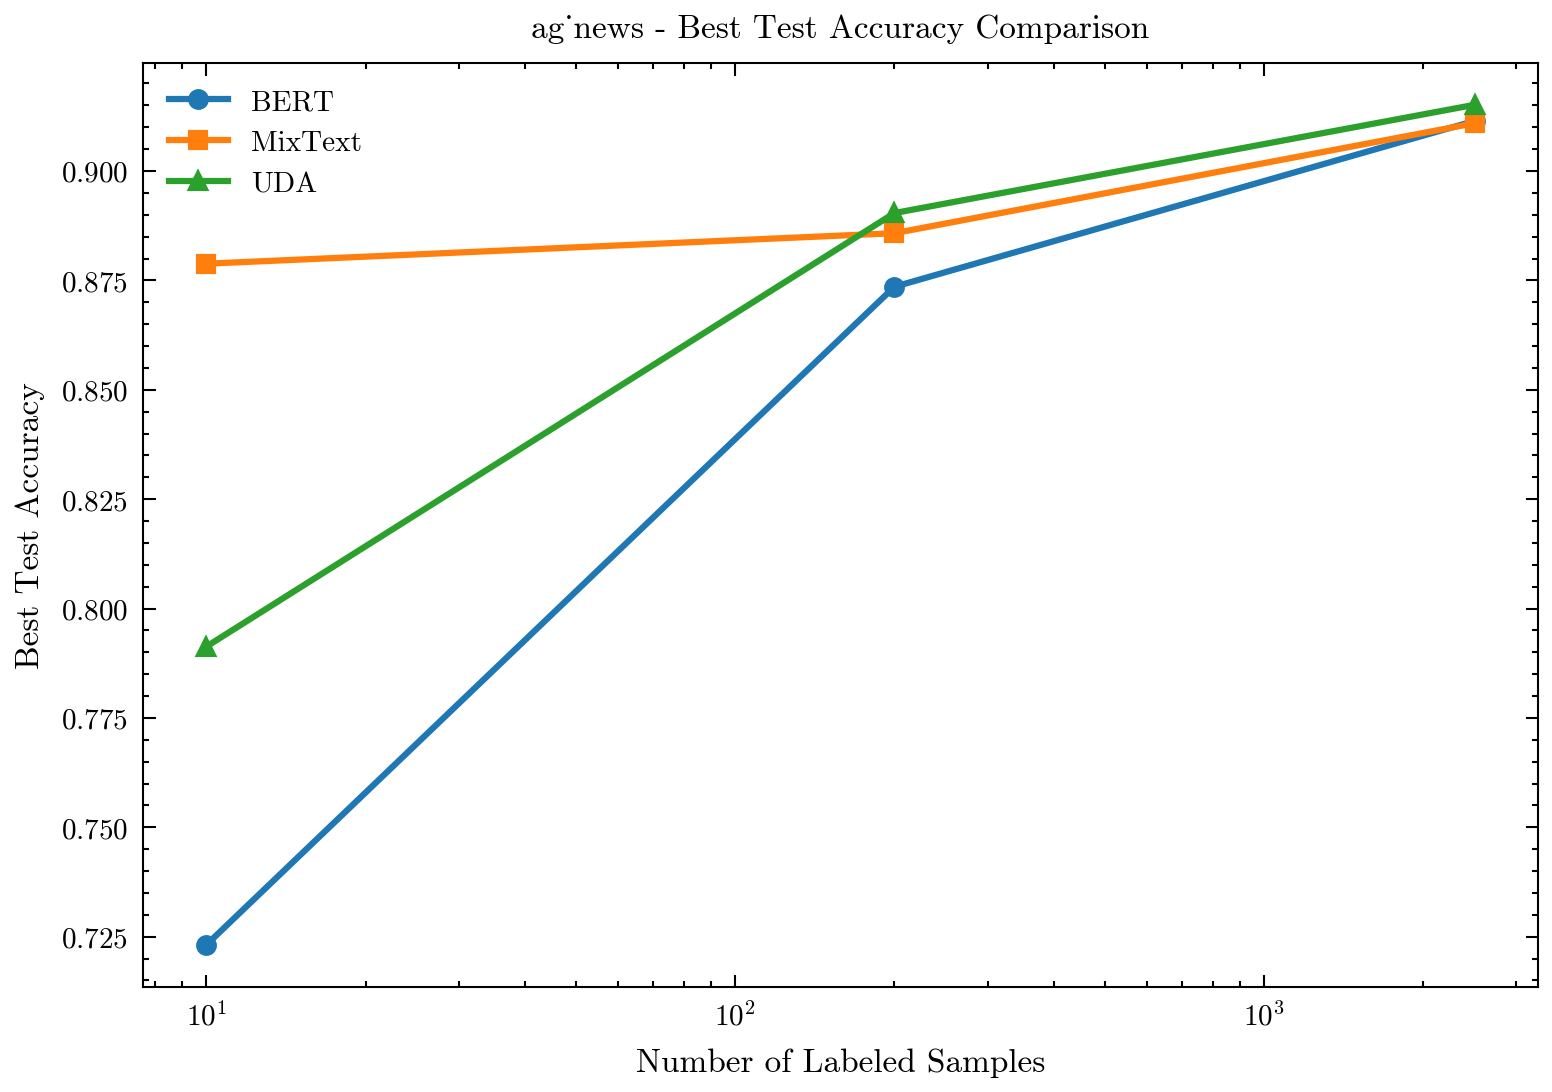
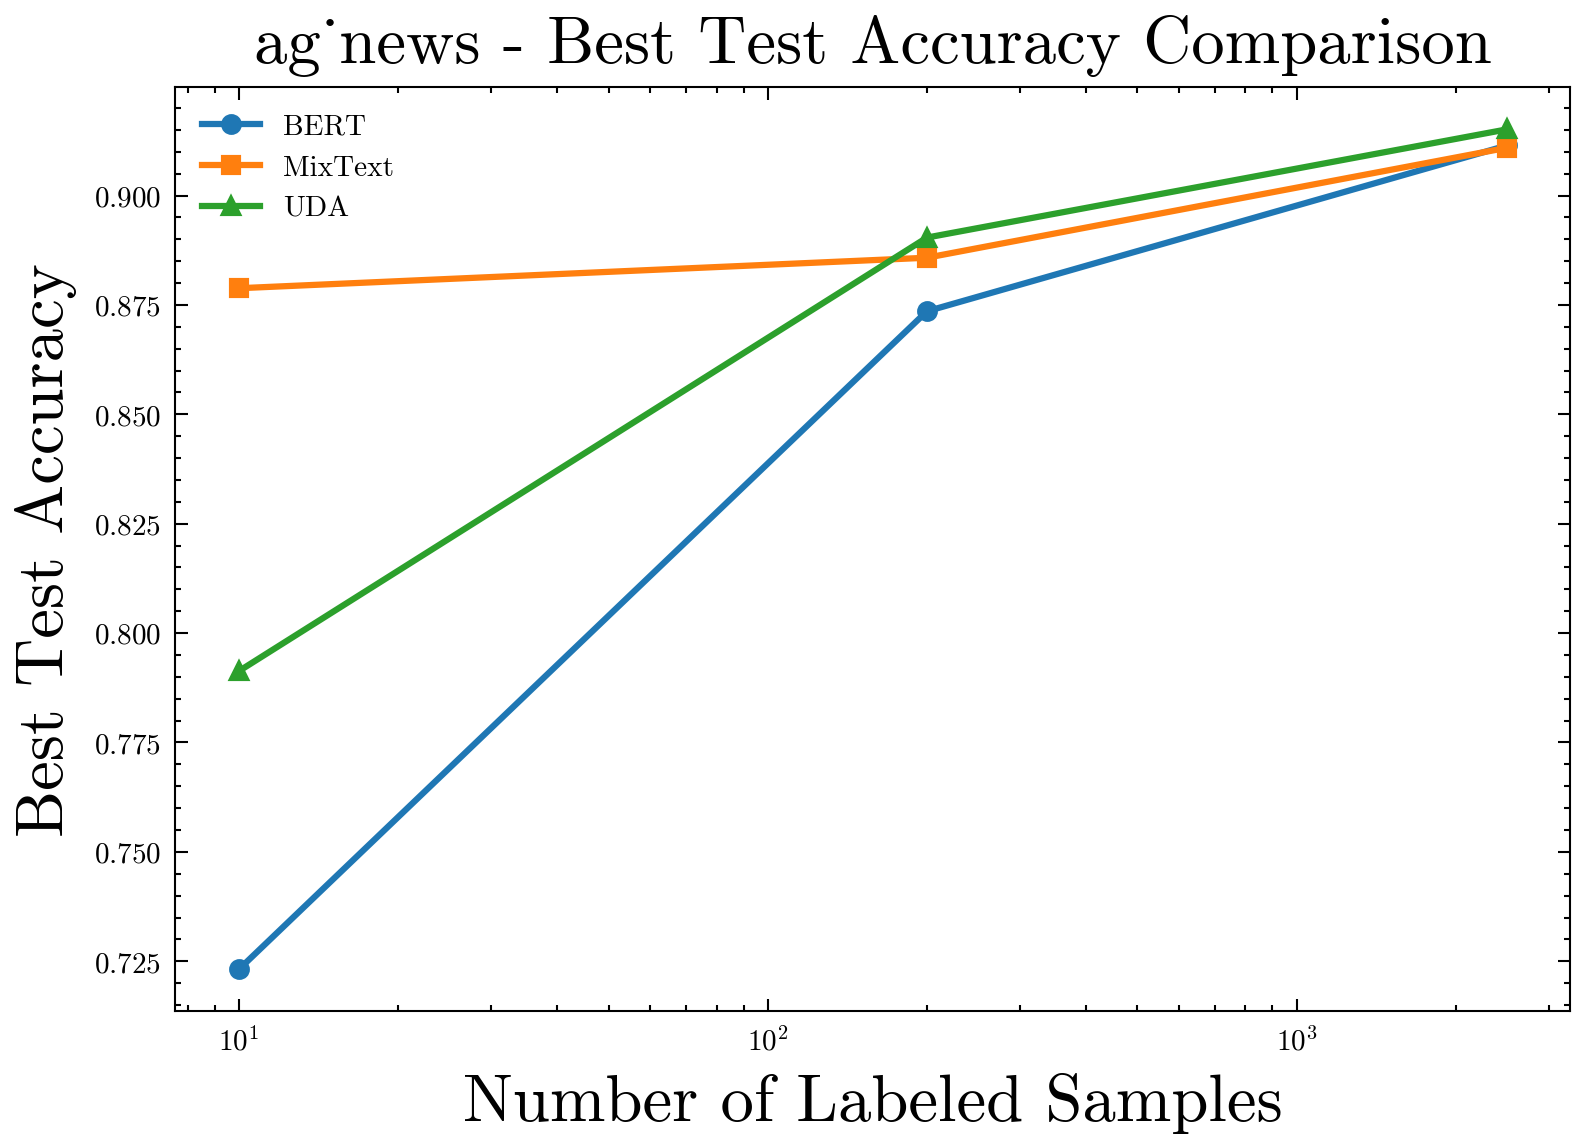
update layout

diff --git a/code/experiment_plot.py b/code/experiment_plot.py
@@ -39,8 +39,8 @@ def find_experiment_dir(base_dir, n_labeled, model_type='bert'):
 
 def plot_training_curves(bert_data, mixtext_data, uda_data, dataset_name, save_dir='plots'):
     """Plot training curves comparing BERT, MixText, and UDA models."""
-    # Create a 3x2 grid of subplots with smaller size
-    fig, axes = plt.subplots(3, 2, figsize=(6, 7))
+    # Create a 2x3 grid of subplots
+    fig, axes = plt.subplots(2, 3, figsize=(12, 8))
     
     # Define colors for consistent plotting
     colors = {'BERT': '#1f77b4', 'MixText': '#ff7f0e', 'UDA': '#2ca02c'}
@@ -53,30 +53,30 @@ def plot_training_curves(bert_data, mixtext_data, uda_data, dataset_name, save_d
         uda_exp = uda_data[n_labeled]
         epochs = np.arange(len(bert_exp))
         
-        # Left column: Training Loss
-        ax_loss = axes[idx, 0]
+        # First row: Training Loss
+        ax_loss = axes[0, idx]
         ax_loss.plot(epochs, bert_exp['train_loss'], 
                     label='BERT', color=colors['BERT'], marker='o', markersize=2, linewidth=1)
         ax_loss.plot(epochs, mixtext_exp['train_loss'], 
                     label='MixText', color=colors['MixText'], marker='s', markersize=2, linewidth=1)
         ax_loss.plot(epochs, uda_exp['train_loss'], 
                     label='UDA', color=colors['UDA'], marker='^', markersize=2, linewidth=1)
-        ax_loss.set_xlabel('Epoch')
-        ax_loss.set_ylabel('Training Loss')
-        ax_loss.set_title(f'{dataset_name} - Training Loss (n={n_labeled})')
+        ax_loss.set_xlabel('Epoch', fontsize=12)
+        ax_loss.set_ylabel('Training Loss', fontsize=12)
+        ax_loss.set_title(f'{dataset_name} - Training Loss (n={n_labeled})', fontsize=12)
         ax_loss.legend(frameon=False)
         
-        # Right column: Validation Accuracy
-        ax_acc = axes[idx, 1]
+        # Second row: Validation Accuracy
+        ax_acc = axes[1, idx]
         ax_acc.plot(epochs, bert_exp['val_acc'], 
                    label='BERT', color=colors['BERT'], marker='o', markersize=2, linewidth=1)
         ax_acc.plot(epochs, mixtext_exp['val_acc'], 
                    label='MixText', color=colors['MixText'], marker='s', markersize=2, linewidth=1)
         ax_acc.plot(epochs, uda_exp['val_acc'], 
                    label='UDA', color=colors['UDA'], marker='^', markersize=2, linewidth=1)
-        ax_acc.set_xlabel('Epoch')
-        ax_acc.set_ylabel('Validation Accuracy')
-        ax_acc.set_title(f'{dataset_name} - Validation Accuracy (n={n_labeled})')
+        ax_acc.set_xlabel('Epoch', fontsize=12)
+        ax_acc.set_ylabel('Validation Accuracy', fontsize=12)
+        ax_acc.set_title(f'{dataset_name} - Validation Accuracy (n={n_labeled})', fontsize=12)
         ax_acc.legend(frameon=False)
     
     plt.tight_layout(pad=0.5)
@@ -109,9 +109,9 @@ def plot_best_test_accuracy(bert_data, mixtext_data, uda_data, dataset_name, sav
     plt.plot(n_labeled, mixtext_acc, label='MixText', color=colors['MixText'], marker='s', markersize=4, linewidth=1.5)
     plt.plot(n_labeled, uda_acc, label='UDA', color=colors['UDA'], marker='^', markersize=4, linewidth=1.5)
     
-    plt.xlabel('Number of Labeled Samples')
-    plt.ylabel('Best Test Accuracy')
-    plt.title(f'{dataset_name} - Best Test Accuracy Comparison')
+    plt.xlabel('Number of Labeled Samples', fontsize=16)
+    plt.ylabel('Best Test Accuracy', fontsize=16)
+    plt.title(f'{dataset_name} - Best Test Accuracy Comparison', fontsize=16)
     plt.legend(frameon=False)
     
     # Set x-axis to log scale for better visualization
